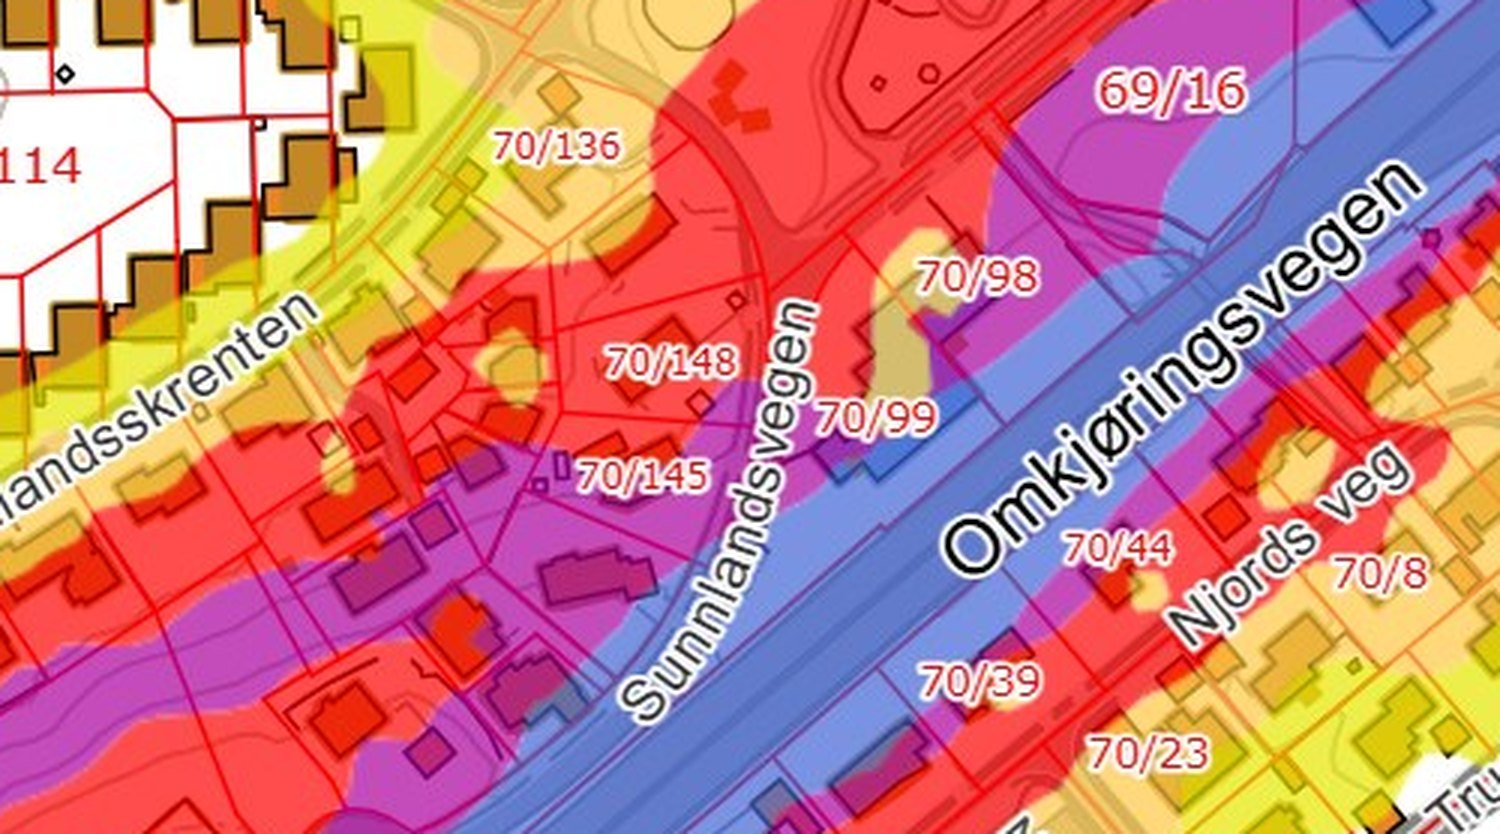
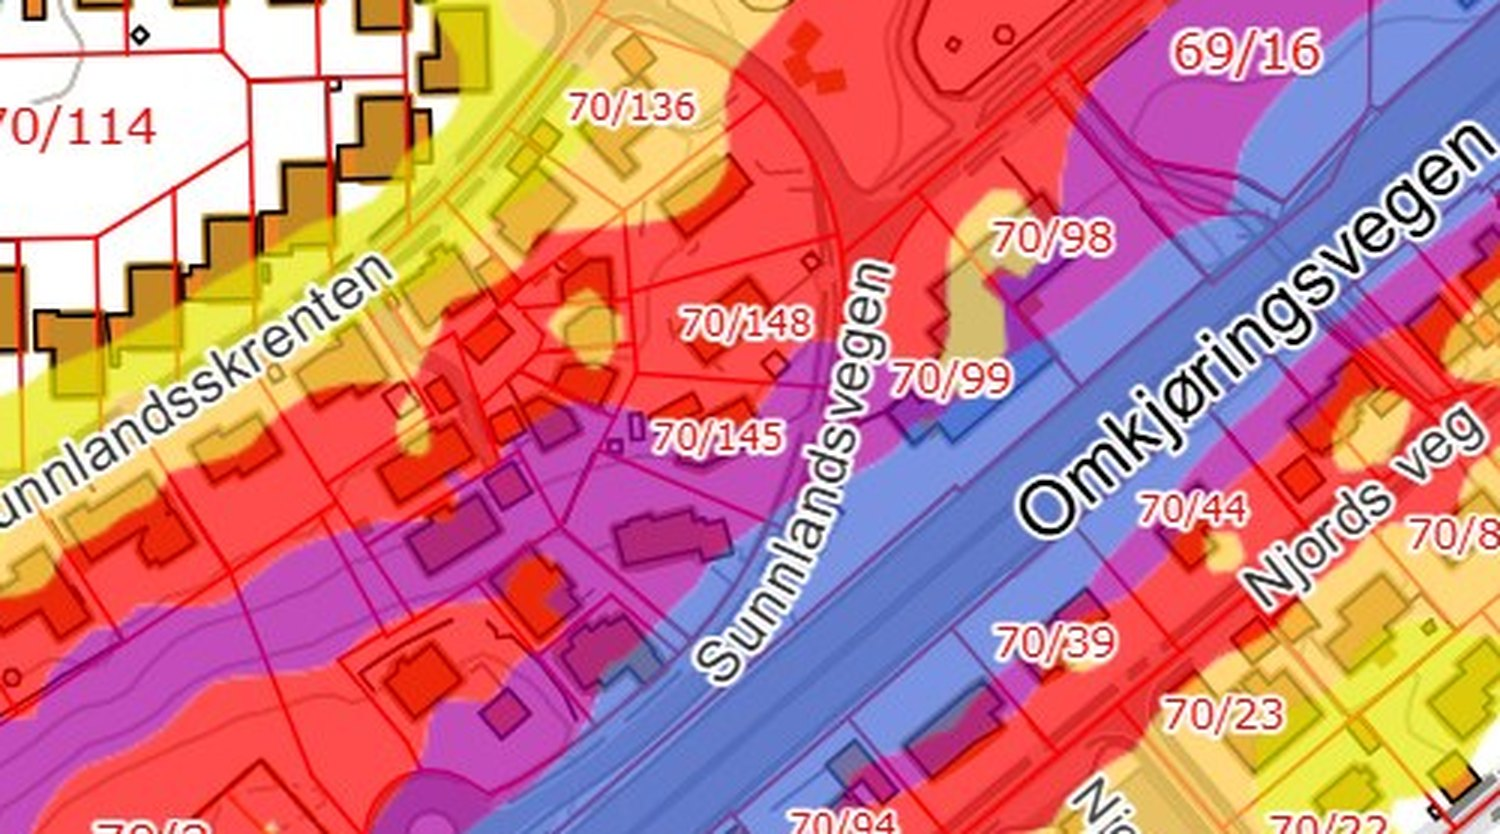
Toppbilde: n-en i Omkjøringsvegen i høyre kant, litt lenger ned
Claude-Session: https://claude.ai/code/session_01RyY5tivxxzcuEhJA2X6yVA

diff --git a/index.html b/index.html
@@ -89,7 +89,7 @@ button{font:600 .85rem/1 var(--body);color:var(--accent);background:transparent;
 .qa h3{font-size:1rem}
 @media (max-width:620px){.stats{grid-template-columns:1fr}}
 .hero{display:block;padding:0;border:0;position:relative;border-radius:10px;overflow:hidden;color:#fff;background:#0f1f33 url("hero-stoykart.jpg") right center/cover no-repeat;isolation:isolate}
-@media (max-width:600px){.hero{background-position:50% center}}
+@media (max-width:600px){.hero{background-position:75% center}}
 .hero::before{content:"";position:absolute;inset:0;z-index:-1;background:linear-gradient(100deg,rgba(9,22,40,.92) 0%,rgba(9,22,40,.82) 40%,rgba(9,22,40,.4) 68%,rgba(9,22,40,.1) 100%)}
 .hero-in{padding:clamp(24px,5vw,48px);display:grid;gap:18px;max-width:40rem}
 .hero .eyebrow{color:#f2c94c}
